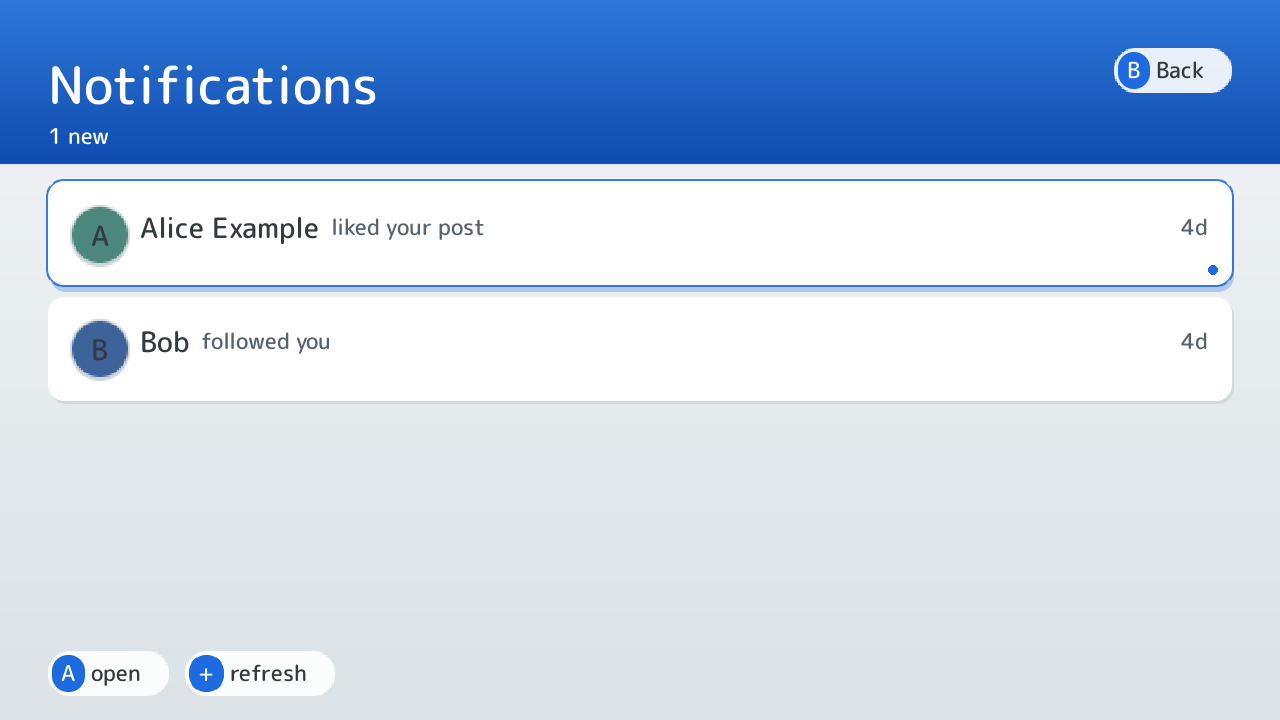
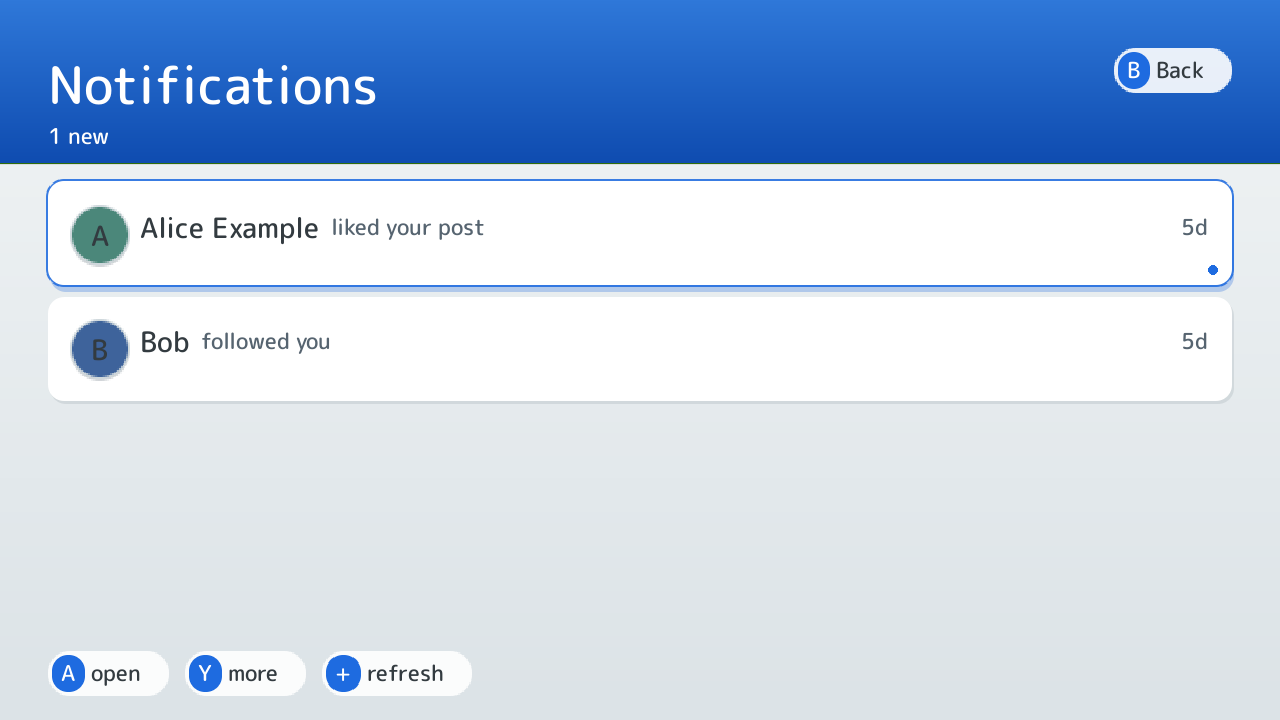
feat(ui): the More menu on notifications and profiles
Y opens the menu on notifications (profile, post, refresh) and on every
profile row, where it replaces X, Y and + with followers, following and the
next tab plus, on a post, the timeline's entries. Footers are shorter. The
guide, its notifications screenshot and the parity row follow.

Claude-Session: https://claude.ai/code/session_01SrAxkDWmiUx5jAaMG1pNJX

Changed region(s): [[0.1562, 0.8861, 0.375, 0.9778], [0.9062, 0.4583, 0.9375, 0.4889], [0.9062, 0.3056, 0.9375, 0.3361]]

diff --git a/src/app/app.c b/src/app/app.c
@@ -919,7 +919,7 @@ open_post_menu(cobalt_app *app, const cobalt_post *post, bool in_thread)
                                                          : COBALT_POPUP_TAG,
                        label, f->target);
    }
-   if (!in_thread) {
+   if (app->screen == COBALT_SCREEN_TIMELINE) {
       cobalt_popup_add(&app->popup, COBALT_POPUP_COMPOSE, "New post", "");
       cobalt_popup_add(&app->popup, COBALT_POPUP_REFRESH, "Refresh timeline", "");
    }
@@ -940,6 +940,49 @@ open_post_menu(cobalt_app *app, const cobalt_post *post, bool in_thread)
                           post->uri);
       }
    }
+}
+
+/* The profile's More menu (cobalt#109): the post's own actions when the cursor is
+ * on a post, then the account's lists and tab, which used to be X, Y and +. */
+static void
+open_profile_menu(cobalt_app *app)
+{
+   const cobalt_post *post = cobalt_profile_view_selected_post(&app->profile);
+   if (post) {
+      open_post_menu(app, post, false);
+   } else {
+      cobalt_popup_open(&app->popup, "More");
+      app->popup_screen = app->screen;
+      app->popup_in_thread = false;
+   }
+   const cobalt_profile *profile = cobalt_session_profile();
+   char label[COBALT_POPUP_LABEL_MAX];
+   if (profile->did[0]) {
+      cobalt_popup_add(&app->popup, COBALT_POPUP_FOLLOWERS, "Followers", "");
+      cobalt_popup_add(&app->popup, COBALT_POPUP_FOLLOWING, "Following", "");
+   }
+   snprintf(label, sizeof(label), "Show %s",
+            cobalt_profile_tab_name(cobalt_profile_tab_next(cobalt_session_profile_tab(),
+                                                            profile->is_self)));
+   cobalt_popup_add(&app->popup, COBALT_POPUP_TAB, label, "");
+}
+
+/* A notification's More menu: who it is from, and the post it is about. */
+static void
+open_notification_menu(cobalt_app *app, const cobalt_notification *item)
+{
+   char label[COBALT_POPUP_LABEL_MAX];
+   cobalt_popup_open(&app->popup, "More");
+   app->popup_screen = app->screen;
+   app->popup_in_thread = false;
+   if (item->actor_did[0]) {
+      snprintf(label, sizeof(label), "View profile %s", item->handle[0] ? item->handle : item->actor);
+      cobalt_popup_add(&app->popup, COBALT_POPUP_PROFILE, label, item->actor_did);
+   }
+   if (item->subject_uri[0]) {
+      cobalt_popup_add(&app->popup, COBALT_POPUP_THREAD, "Open post", item->subject_uri);
+   }
+   cobalt_popup_add(&app->popup, COBALT_POPUP_REFRESH, "Refresh notifications", "");
 }
 
 static void
@@ -993,7 +1036,9 @@ popup_choose(cobalt_app *app, int index)
           * that moved the selection cannot make the viewer show a different
           * post's pictures than the menu named. */
          const cobalt_post *post = NULL;
-         if (app->popup_in_thread) {
+         if (app->popup_screen == COBALT_SCREEN_PROFILE) {
+            post = cobalt_profile_view_selected_post(&app->profile);
+         } else if (app->popup_in_thread) {
             const cobalt_thread *conv = cobalt_session_thread();
             if (app->thread.selected < conv->count) {
                post = &conv->posts[app->thread.selected];
@@ -1030,8 +1075,42 @@ popup_choose(cobalt_app *app, int index)
          break;
       case COBALT_POPUP_REFRESH:
          cobalt_popup_close(&app->popup);
-         if (!cobalt_session_busy() && cobalt_session_begin_feed_current(false)) {
+         if (cobalt_session_busy()) {
+            break;
+         }
+         if (app->popup_screen == COBALT_SCREEN_NOTIFICATIONS) {
+            if (cobalt_session_begin_notifications(false)) {
+               cobalt_notify_view_rewind(&app->notify);
+            }
+         } else if (cobalt_session_begin_feed_current(false)) {
             cobalt_timeline_rewind(&app->timeline);
+         }
+         break;
+      case COBALT_POPUP_THREAD:
+         if (cobalt_session_begin_thread(it->arg)) {
+            cobalt_thread_view_reset(&app->thread);
+            app->thread_return = app->popup_screen;
+            app->screen = COBALT_SCREEN_THREAD;
+            cobalt_popup_close(&app->popup);
+         }
+         break;
+      case COBALT_POPUP_FOLLOWERS:
+      case COBALT_POPUP_FOLLOWING:
+         app->follows_profile_return = app->profile_return;
+         cobalt_graph_view_open_follows(&app->graph,
+                                        it->kind == COBALT_POPUP_FOLLOWERS
+                                           ? COBALT_GRAPH_FOLLOWERS
+                                           : COBALT_GRAPH_FOLLOWING,
+                                        cobalt_session_profile()->did);
+         app->screen = COBALT_SCREEN_FOLLOWS_LIST;
+         cobalt_popup_close(&app->popup);
+         break;
+      case COBALT_POPUP_TAB:
+         cobalt_popup_close(&app->popup);
+         if (!cobalt_session_busy() &&
+             cobalt_session_begin_profile_tab(cobalt_profile_tab_next(
+                cobalt_session_profile_tab(), cobalt_session_profile()->is_self))) {
+            cobalt_profile_view_rewind(&app->profile);
          }
          break;
       case COBALT_POPUP_DELETE:
@@ -1168,17 +1247,8 @@ app_update_inner(cobalt_app *app, const cobalt_input *in, uint32_t now_ms)
                app->thread_return = COBALT_SCREEN_PROFILE;
                app->screen = COBALT_SCREEN_THREAD;
                break;
-            case COBALT_PROFILE_VIEW_OPEN_FOLLOWERS:
-               app->follows_profile_return = app->profile_return;
-               cobalt_graph_view_open_follows(&app->graph, COBALT_GRAPH_FOLLOWERS,
-                                              cobalt_session_profile()->did);
-               app->screen = COBALT_SCREEN_FOLLOWS_LIST;
-               break;
-            case COBALT_PROFILE_VIEW_OPEN_FOLLOWING:
-               app->follows_profile_return = app->profile_return;
-               cobalt_graph_view_open_follows(&app->graph, COBALT_GRAPH_FOLLOWING,
-                                              cobalt_session_profile()->did);
-               app->screen = COBALT_SCREEN_FOLLOWS_LIST;
+            case COBALT_PROFILE_VIEW_MENU:
+               open_profile_menu(app);
                break;
             case COBALT_PROFILE_VIEW_STAY:
             default:
@@ -1275,6 +1345,13 @@ app_update_inner(cobalt_app *app, const cobalt_input *in, uint32_t now_ms)
                app->profile_return = COBALT_SCREEN_NOTIFICATIONS;
                app->screen = COBALT_SCREEN_PROFILE;
                break;
+            case COBALT_NOTIFY_MENU: {
+               const cobalt_notifications *list = cobalt_session_notifications();
+               if (app->notify.selected < list->count) {
+                  open_notification_menu(app, &list->items[app->notify.selected]);
+               }
+               break;
+            }
             case COBALT_NOTIFY_STAY:
             default:
                break;

diff --git a/tests/snapshot_main.c b/tests/snapshot_main.c
@@ -244,6 +244,23 @@ main(int argc, char **argv)
       settle(40);
       CHECK(cobalt_app_popup(g_app) == NULL);
       CHECK(cobalt_app_screen(g_app) == COBALT_SCREEN_PROFILE);
+      /* The profile's More menu carries what X, Y and + used to do (cobalt#109). */
+      {
+         frame(COBALT_BTN_ALT_Y); settle(5);
+         const cobalt_popup *p = cobalt_app_popup(g_app);
+         CHECK(p != NULL && p->open);
+         bool followers = false, following = false, tab = false;
+         for (int i = 0; p && i < p->count; i++) {
+            followers |= p->items[i].kind == COBALT_POPUP_FOLLOWERS;
+            following |= p->items[i].kind == COBALT_POPUP_FOLLOWING;
+            tab |= p->items[i].kind == COBALT_POPUP_TAB;
+         }
+         CHECK(followers && following && tab);
+         shoot("profile-menu");
+         frame(COBALT_BTN_BACK); settle(5);
+         CHECK(cobalt_app_popup(g_app) == NULL);
+         CHECK(cobalt_app_screen(g_app) == COBALT_SCREEN_PROFILE);
+      }
       frame(COBALT_BTN_BACK);
       settle(10);
       CHECK(cobalt_app_screen(g_app) == COBALT_SCREEN_TIMELINE);
@@ -288,6 +305,23 @@ main(int argc, char **argv)
    open_home_item(5);
    settle(40);
    shoot("notifications");
+
+   /* Y opens the More menu here as it does on the timeline (cobalt#109). */
+   {
+      frame(COBALT_BTN_ALT_Y); settle(5);
+      const cobalt_popup *p = cobalt_app_popup(g_app);
+      CHECK(p != NULL && p->open && p->count >= 2);
+      bool has_profile = false, has_refresh = false;
+      for (int i = 0; p && i < p->count; i++) {
+         has_profile |= p->items[i].kind == COBALT_POPUP_PROFILE;
+         has_refresh |= p->items[i].kind == COBALT_POPUP_REFRESH;
+      }
+      CHECK(has_profile && has_refresh);
+      shoot("notifications-menu");
+      frame(COBALT_BTN_BACK); settle(5);
+      CHECK(cobalt_app_popup(g_app) == NULL);
+      CHECK(cobalt_app_screen(g_app) == COBALT_SCREEN_NOTIFICATIONS);
+   }
 
    /* Opening a notification's thread or profile and backing out keeps the cursor
     * and scroll (cobalt#110). */

diff --git a/src/app/profile.c b/src/app/profile.c
@@ -97,14 +97,10 @@ cobalt_profile_view_update(cobalt_profile_view *view, const cobalt_input *in)
       return COBALT_PROFILE_VIEW_STAY;
    }
 
-   if (profile->loaded && cobalt_input_pressed(in, COBALT_BTN_MENU)) {
-      if (cobalt_session_begin_profile_tab(cobalt_profile_tab_next(
-             cobalt_session_profile_tab(), profile->is_self))) {
-         view->selected = HEADER_ROW;
-         view->scroll = 0;
-         view->last_visible = -1;
-      }
-      return COBALT_PROFILE_VIEW_STAY;
+   /* Followers, following, the tab and, on a post, the post's own actions live
+    * in the More menu, the same Y as the timeline and thread (cobalt#109). */
+   if (profile->loaded && cobalt_input_pressed(in, COBALT_BTN_ALT_Y)) {
+      return COBALT_PROFILE_VIEW_MENU;
    }
 
    if (view->selected == HEADER_ROW) {
@@ -112,14 +108,6 @@ cobalt_profile_view_update(cobalt_profile_view *view, const cobalt_input *in)
        * Right), just mapped to follow/mute/block instead of open/like/repost.
        * None apply to your own profile, and the session layer refuses them
        * there too. */
-      if (profile->loaded && profile->did[0]) {
-         if (cobalt_input_pressed(in, COBALT_BTN_ALT_X)) {
-            return COBALT_PROFILE_VIEW_OPEN_FOLLOWERS;
-         }
-         if (cobalt_input_pressed(in, COBALT_BTN_ALT_Y)) {
-            return COBALT_PROFILE_VIEW_OPEN_FOLLOWING;
-         }
-      }
       if (profile->loaded && !profile->is_self) {
          if (cobalt_input_pressed(in, COBALT_BTN_CONFIRM)) {
             cobalt_session_begin_follow();
@@ -353,7 +341,7 @@ cobalt_profile_view_draw(cobalt_profile_view *view, cobalt_render *r,
    }
 
    char hint_text[160];
-   snprintf(hint_text, sizeof(hint_text), "[%s]  +: tab   X: followers   Y: following   A/Left/Right: act",
+   snprintf(hint_text, sizeof(hint_text), "[%s]  Y: more   A/Left/Right: act",
             cobalt_profile_tab_name(cobalt_session_profile_tab()));
    cobalt_draw_hints(r, cobalt_session_busy() ? "Working..." : hint_text);
 }

diff --git a/src/app/notify.c b/src/app/notify.c
@@ -90,6 +90,10 @@ cobalt_notify_view_update(cobalt_notify_view *view, const cobalt_input *in)
       view->scroll = 0;
    }
 
+   if (!busy && cobalt_input_pressed(in, COBALT_BTN_ALT_Y)) {
+      return COBALT_NOTIFY_MENU;
+   }
+
    /* Bounded before indexing, matching the other two list screens. */
    if (!busy && view->selected < list->count &&
        cobalt_input_pressed(in, COBALT_BTN_CONFIRM)) {
@@ -284,5 +288,5 @@ cobalt_notify_view_draw(cobalt_notify_view *view, cobalt_render *r,
    }
 
    cobalt_draw_hints(r, cobalt_session_busy() ? "Working..."
-                                          : "A: open   +: refresh");
+                                          : "A: open   Y: more   +: refresh");
 }

diff --git a/src/ui/popup.c b/src/ui/popup.c
@@ -110,6 +110,10 @@ icon_for(cobalt_popup_kind kind)
       case COBALT_POPUP_REPOSTS: return COBALT_ICON_REPOST;
       case COBALT_POPUP_COMPOSE: return COBALT_ICON_PENCIL;
       case COBALT_POPUP_REFRESH: return COBALT_ICON_HOUSE;
+      case COBALT_POPUP_FOLLOWERS:
+      case COBALT_POPUP_FOLLOWING: return COBALT_ICON_USERS;
+      case COBALT_POPUP_TAB:     return COBALT_ICON_LIST;
+      case COBALT_POPUP_THREAD:  return COBALT_ICON_REPLY;
    }
    return COBALT_ICON_LIST;
 }

diff --git a/src/app/profile.h b/src/app/profile.h
@@ -28,8 +28,7 @@ typedef enum {
    COBALT_PROFILE_VIEW_STAY = 0,
    COBALT_PROFILE_VIEW_BACK,
    COBALT_PROFILE_VIEW_OPEN_THREAD,
-   COBALT_PROFILE_VIEW_OPEN_FOLLOWERS,
-   COBALT_PROFILE_VIEW_OPEN_FOLLOWING,
+   COBALT_PROFILE_VIEW_MENU,
 } cobalt_profile_action;
 
 typedef struct {

diff --git a/src/ui/popup.h b/src/ui/popup.h
@@ -31,6 +31,10 @@ typedef enum {
    COBALT_POPUP_REPOSTS,
    COBALT_POPUP_COMPOSE,
    COBALT_POPUP_REFRESH,
+   COBALT_POPUP_FOLLOWERS,
+   COBALT_POPUP_FOLLOWING,
+   COBALT_POPUP_TAB,
+   COBALT_POPUP_THREAD,
 } cobalt_popup_kind;
 
 typedef struct {

diff --git a/src/app/notify.h b/src/app/notify.h
@@ -28,6 +28,7 @@ typedef enum {
    COBALT_NOTIFY_BACK,
    COBALT_NOTIFY_OPEN_THREAD,
    COBALT_NOTIFY_OPEN_PROFILE,
+   COBALT_NOTIFY_MENU,
 } cobalt_notify_action;
 
 typedef struct {

diff --git a/docs/guide.md b/docs/guide.md
@@ -12,7 +12,7 @@ I have not walked through all of this on my console since I wrote it down, so if
 | A | Open or choose the highlighted thing. |
 | B | Back. On the keyboard screens B types a backspace instead; leave with the keyboard's Cancel key. |
 | X | A second action: new post on the timeline, quote on a thread, followers on a profile. |
-| Y | The "More" menu for the highlighted post, or following on a profile. |
+| Y | The "More" menu for the highlighted post, notification or profile row. |
 | + | Refresh, or on a profile, the next tab. |
 | GamePad touch | Tap what you would press. Rows, the Back pill in the corner and the footer prompts are all tappable. |
 
@@ -72,11 +72,11 @@ You type on Cobalt's own keyboard: move with the D-pad or tap on the GamePad. Po
 
 ![Notifications](screenshots/notifications.png)
 
-Replies, mentions, quotes, likes, reposts and follows. A opens the post or the follower's profile. + refreshes.
+Replies, mentions, quotes, likes, reposts and follows. A opens the post or the follower's profile. Y opens the More menu: the account's profile, the post, and refresh. + also refreshes.
 
 ## Profiles
 
-A on a name or avatar opens a profile. On the header row: A follows or unfollows, Left mutes, Right blocks (none of these on your own profile), X lists followers and Y who they follow. + cycles the tabs: posts, replies, media and, on your own profile, likes. Posts work like the timeline.
+A on a name or avatar opens a profile. On the header row: A follows or unfollows, Left mutes, Right blocks (none of these on your own profile). Y opens the More menu on any row. It lists followers, following and the next tab (posts, replies, media and, on your own profile, likes) and, on a post, the same entries as on the timeline. Posts work like the timeline.
 
 ## Search, feeds and lists
 

diff --git a/CHANGELOG.md b/CHANGELOG.md
@@ -8,7 +8,8 @@ the GitHub release notes, so keep the `## [x.y.z] - date` headings exact.
 ## [Unreleased]
 
 ### Changed
-- Cobalt now builds against Wolfram v0.27.0 instead of its main branch, and the updater uses Wolfram's `wolfram/update.h` for the manifest, version comparison and SHA-256. My own copies of those are deleted, and a CI guard fails if they grow back. Behaviour is the same ([#170](https://github.com/ewanc26/cobalt/pull/172)).
+- The More menu (Y) now works on notifications and on profiles, not only on the timeline and a thread. On a profile it replaces X, Y and +, so followers, following and the next tab are menu entries and the footer is shorter; on a post it also has the post's own entries. On a notification it offers the profile, the post and refresh ([#173](https://github.com/ewanc26/cobalt/pull/173)).
+- Cobalt now builds against Wolfram v0.27.0 instead of its main branch, and the updater uses Wolfram's `wolfram/update.h` for the manifest, version comparison and SHA-256. My own copies of those are deleted, and a CI guard fails if they grow back. Behaviour is the same ([#172](https://github.com/ewanc26/cobalt/pull/172)).
 - Notifications now have a host test that the cursor and scroll survive opening a thread or profile and backing out, next to the timeline one. I could not reproduce the rewind in #110 on the host, so it stays open until it is confirmed on a console ([#169](https://github.com/ewanc26/cobalt/pull/169)).
 
 ### Fixed

diff --git a/docs/PARITY.md b/docs/PARITY.md
@@ -71,7 +71,7 @@ These are Wii U specific and have no row in the other clients.
 | GamePad touch coverage of the popup and header pills | issue #112 | |
 | TV layout uses the extra space | issue #111 | |
 | Remember scroll position when returning from a thread or profile | partial #110 | The timeline keeps its cursor and scroll across a thread and across a profile, and notifications across a thread or profile; snapshot checks in `tests/snapshot_main.c` assert it on the host. I could not reproduce a rewind and have not seen it on a console, so issue #110 stays open for the owner to confirm. |
-| More menu unified with the thread and profile screens | issue #109 | |
+| More menu unified with the thread and profile screens | implemented | Y opens it on the timeline, thread, notifications and profile. The profile's X, Y and + moved into it; notifications get profile, post and refresh. Snapshot checks in `tests/snapshot_main.c`; search results are the timeline screen and already had it. Host only. |
 | User guide with controls per screen and screenshots | implemented | `docs/guide.md`, checked by `tools/check-guide.py`. |
 | First on-console acceptance pass | issue #24 | Needs the owner's console. |
 
